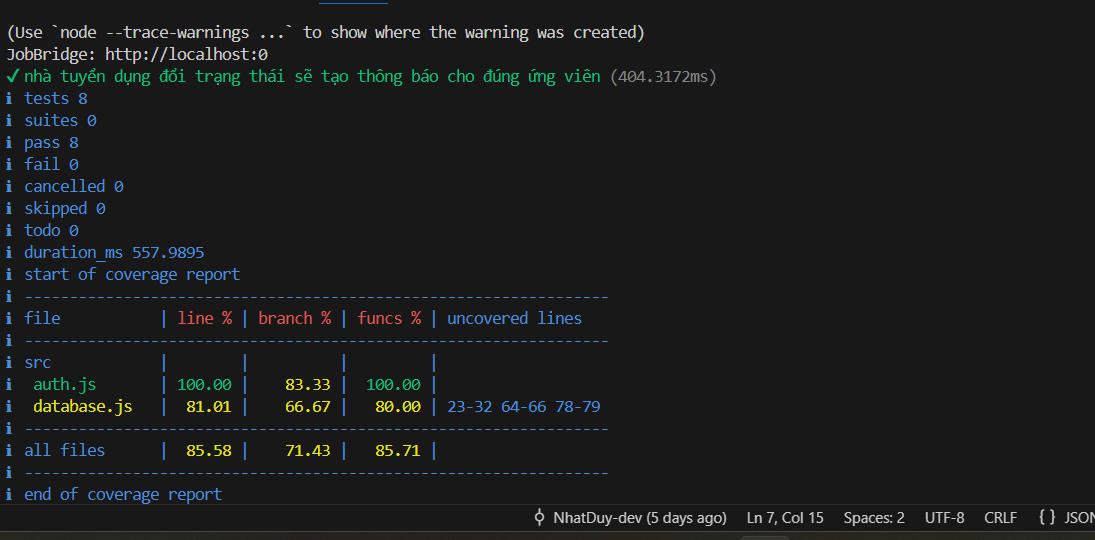
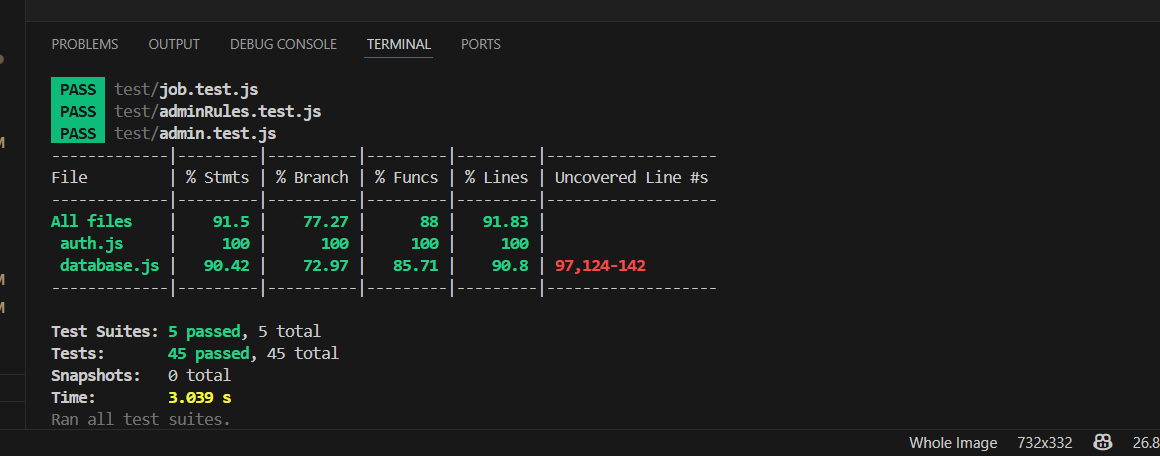
docs: cập nhật CSDL và minh chứng nộp bài

diff --git a/eslint.config.js b/eslint.config.js
@@ -1,0 +1,33 @@
+import js from "@eslint/js";
+import globals from "globals";
+
+export default [
+  {
+    ignores: [
+      "node_modules/**",
+      "coverage/**",
+      ".scannerwork/**",
+      "data/**",
+      "*.log",
+    ],
+  },
+  js.configs.recommended,
+  {
+    files: ["**/*.js"],
+    languageOptions: {
+      ecmaVersion: "latest",
+      sourceType: "module",
+      globals: {
+        ...globals.browser,
+        ...globals.node,
+        ...globals.jest,
+      },
+    },
+    rules: {
+      "no-undef": "off",
+      "no-empty": "off",
+      "no-useless-escape": "off",
+      "no-unused-vars": ["warn", { argsIgnorePattern: "^_" }],
+    },
+  },
+];

diff --git a/src/database.js b/src/database.js
@@ -13,8 +13,10 @@ const DEFAULT_DATABASE_URL =
 const INSERT_ID_TABLES = new Set([
   "users",
   "skills",
+  "cvs",
   "jobs",
   "applications",
+  "job_reports",
   "notifications",
   "reports",
   "admin_logs",
@@ -200,13 +202,32 @@ export async function seedDatabase(db) {
     ];
     for (const job of jobs) await insertJob.run(...job);
 
+    const candidateCv = (await tx.prepare(`
+      INSERT INTO cvs
+        (candidate_id, name, source, profile_snapshot, original_file_name, mime_type, file_size)
+      VALUES (?, ?, ?, ?, ?, ?, ?)
+    `).run(
+      candidate,
+      "CV Nguyen Minh Anh",
+      "profile",
+      JSON.stringify({
+        desiredTitle: "Frontend Developer",
+        education: "Dai hoc Cong nghe - Cong nghe thong tin",
+        skills: ["ReactJS", "Figma", "JavaScript"],
+        experience: "1 nam",
+      }),
+      "",
+      "",
+      0,
+    )).lastInsertRowid;
+
     const insertApplication = tx.prepare(`
-      INSERT INTO applications(candidate_id, job_id, status, applied_at)
-      VALUES (?, ?, ?, ?)
+      INSERT INTO applications(candidate_id, job_id, status, cv_id, cv_name, applied_at)
+      VALUES (?, ?, ?, ?, ?, ?)
     `);
-    await insertApplication.run(candidate, 101, "Da nop", "2026-07-01");
-    await insertApplication.run(candidate, 102, "Len lich phong van", "2026-07-03");
-    await insertApplication.run(candidate, 104, "Tu choi", "2026-07-05");
+    await insertApplication.run(candidate, 101, "Da nop", candidateCv, "CV Nguyen Minh Anh", "2026-07-01");
+    await insertApplication.run(candidate, 102, "Len lich phong van", candidateCv, "CV Nguyen Minh Anh", "2026-07-03");
+    await insertApplication.run(candidate, 104, "Tu choi", candidateCv, "CV Nguyen Minh Anh", "2026-07-05");
     await tx.prepare("INSERT INTO saved_jobs(user_id, job_id) VALUES (?, ?)").run(candidate, 102);
 
     for (const skill of ["ReactJS", "Figma", "JavaScript"]) {

diff --git a/database/migrate-sqlite-to-postgres.js b/database/migrate-sqlite-to-postgres.js
@@ -13,9 +13,11 @@ const tables = [
   "users",
   "skills",
   "user_skills",
+  "cvs",
   "jobs",
   "applications",
   "saved_jobs",
+  "job_reports",
   "notifications",
   "sessions",
   "reports",
@@ -25,8 +27,10 @@ const tables = [
 const identityTables = [
   "users",
   "skills",
+  "cvs",
   "jobs",
   "applications",
+  "job_reports",
   "notifications",
   "reports",
   "admin_logs",

diff --git a/README.md b/README.md
@@ -64,7 +64,7 @@ Dự án chạy theo mô hình SPA, dùng Node.js + Express cho backend REST API
 | Database | PostgreSQL 14+ |
 | Xác thực | Token session, hash mật khẩu |
 | Service mở rộng | Python FastAPI |
-| Kiểm thử | Node test runner |
+| Kiểm thử | Jest |
 | CI/CD | GitHub Actions |
 | Container | Docker Compose |
 
@@ -78,6 +78,8 @@ JobBridge
 │   ├── admin/              # Giao diện Admin
 │   ├── candidate/          # Giao diện ứng viên
 │   └── company/            # Giao diện công ty
+├── data/
+│   └── jobbridge.db        # File SQLite demo nộp kèm để xem dữ liệu mẫu
 ├── database/
 │   └── schema.sql          # Cấu trúc database PostgreSQL
 ├── docker/                 # Dockerfile và Docker Compose
@@ -264,16 +266,26 @@ Các bảng chính:
 | Bảng | Ý nghĩa |
 | --- | --- |
 | `users` | Tài khoản ứng viên, công ty, admin |
+| `cvs` | CV của ứng viên |
 | `jobs` | Tin tuyển dụng |
 | `applications` | Hồ sơ ứng tuyển |
 | `saved_jobs` | Việc làm đã lưu |
 | `notifications` | Thông báo cho ứng viên |
 | `sessions` | Phiên đăng nhập |
+| `job_reports` | Báo cáo tin tuyển dụng do ứng viên gửi |
 | `reports` | Báo cáo vi phạm |
 | `admin_logs` | Nhật ký hoạt động Admin |
 | `system_settings` | Cấu hình hệ thống |
 
 Có thể xem dữ liệu bằng `psql`, pgAdmin hoặc bất kỳ PostgreSQL client nào.
+
+File CSDL SQLite demo nộp kèm source code:
+
+```text
+data/jobbridge.db
+```
+
+File này dùng để thầy/cô mở nhanh bằng DB Browser for SQLite và kiểm tra dữ liệu mẫu gồm tài khoản, tin tuyển dụng, đơn ứng tuyển và CV. Khi chạy ứng dụng thật, hệ thống dùng PostgreSQL theo `database/schema.sql`.
 
 Cách reset dữ liệu demo:
 
@@ -450,10 +462,10 @@ npm run test:coverage
 
 Coverage report hiện tại cho phần core backend theo cấu hình Jest:
 
-- Statements: `91.42%`.
+- Statements: `91.5%`.
 - Branches: `77.27%`.
 - Functions: `88%`.
-- Lines: `91.75%`.
+- Lines: `91.83%`.
 - Kết quả này đạt yêu cầu coverage Level 1 `>= 70%` và Level 2 `>= 80%` theo line coverage.
 
 Ảnh minh chứng coverage report: